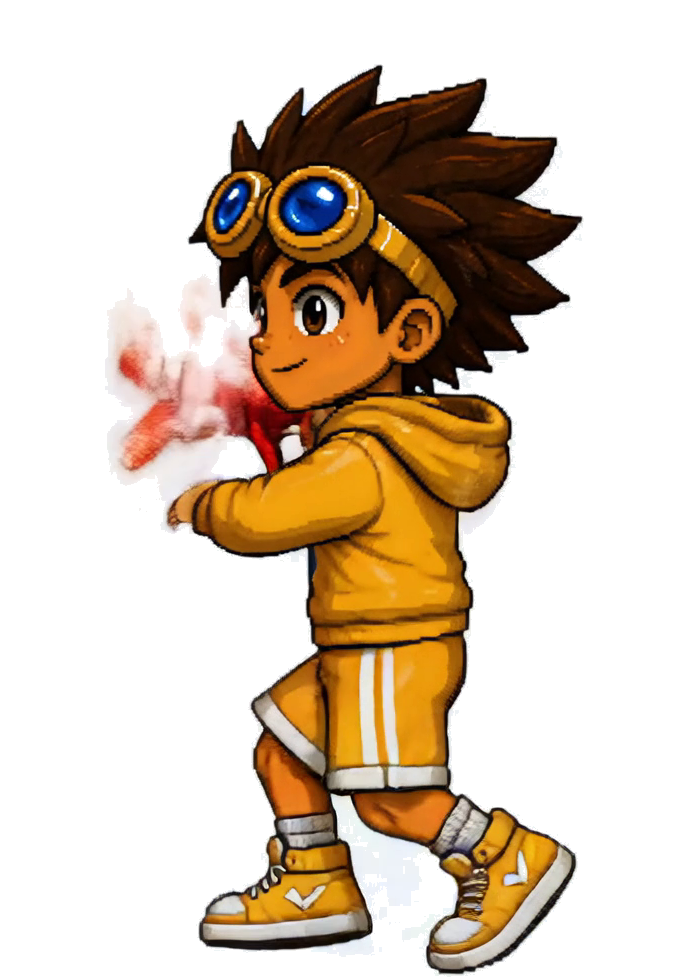
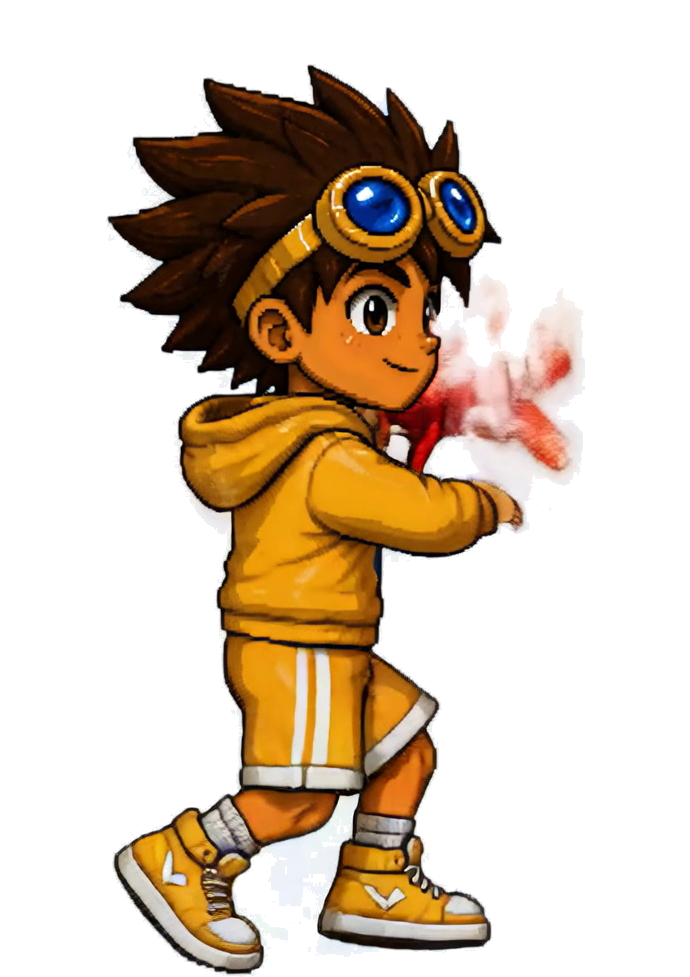
Fix 4 Ocean sprite bugs
1. Attack direction: video faces left so swap r/l naming on extract
2. White fringe: zero RGB of transparent pixels after bg removal
3. Jump too small: scale jump character to match walk frame height (~920px)
4. Energy bar: hide when real sprites are loaded

https://claude.ai/code/session_01AcHujqFqKQDzHHk9spZ3nX

diff --git a/src/entities/Ocean.js b/src/entities/Ocean.js
@@ -280,25 +280,28 @@ export class Ocean extends Character {
       }
     }
 
-    // ── Energy bar ───────────────────────────────────────────────────
-    const bx = this.worldX;
-    const by = sy - this.config.height - 10;
-    this.energyBg.x = bx;
-    this.energyBg.y = by;
-    const frac = this.energy / this.config.maxEnergy;
-    this.energyBar.width = this.config.width * frac;
-    this.energyBar.x = bx - (this.config.width - this.config.width * frac) / 2;
-    this.energyBar.y = by;
-    this.energyBg.setDepth(this.groundY + 2);
-    this.energyBar.setDepth(this.groundY + 2);
-
-    if (frac < 0.25 && !this.isNapping) {
-      const pulse = 0.6 + Math.abs(Math.sin(Date.now() / 150)) * 0.4;
-      this.energyBar.fillColor = 0xff2200;
-      this.energyBar.setAlpha(pulse);
-    } else {
-      this.energyBar.fillColor = 0xff8800;
-      this.energyBar.setAlpha(1);
+    // ── Energy bar (hidden when real sprites loaded) ──────────────────
+    this.energyBg.setVisible(!this._hasSprites);
+    this.energyBar.setVisible(!this._hasSprites);
+    if (!this._hasSprites) {
+      const bx = this.worldX;
+      const by = sy - this.config.height - 10;
+      this.energyBg.x = bx;
+      this.energyBg.y = by;
+      const frac = this.energy / this.config.maxEnergy;
+      this.energyBar.width = this.config.width * frac;
+      this.energyBar.x = bx - (this.config.width - this.config.width * frac) / 2;
+      this.energyBar.y = by;
+      this.energyBg.setDepth(this.groundY + 2);
+      this.energyBar.setDepth(this.groundY + 2);
+      if (frac < 0.25 && !this.isNapping) {
+        const pulse = 0.6 + Math.abs(Math.sin(Date.now() / 150)) * 0.4;
+        this.energyBar.fillColor = 0xff2200;
+        this.energyBar.setAlpha(pulse);
+      } else {
+        this.energyBar.fillColor = 0xff8800;
+        this.energyBar.setAlpha(1);
+      }
     }
 
     // ── Stuffed rabbit ────────────────────────────────────────────────
